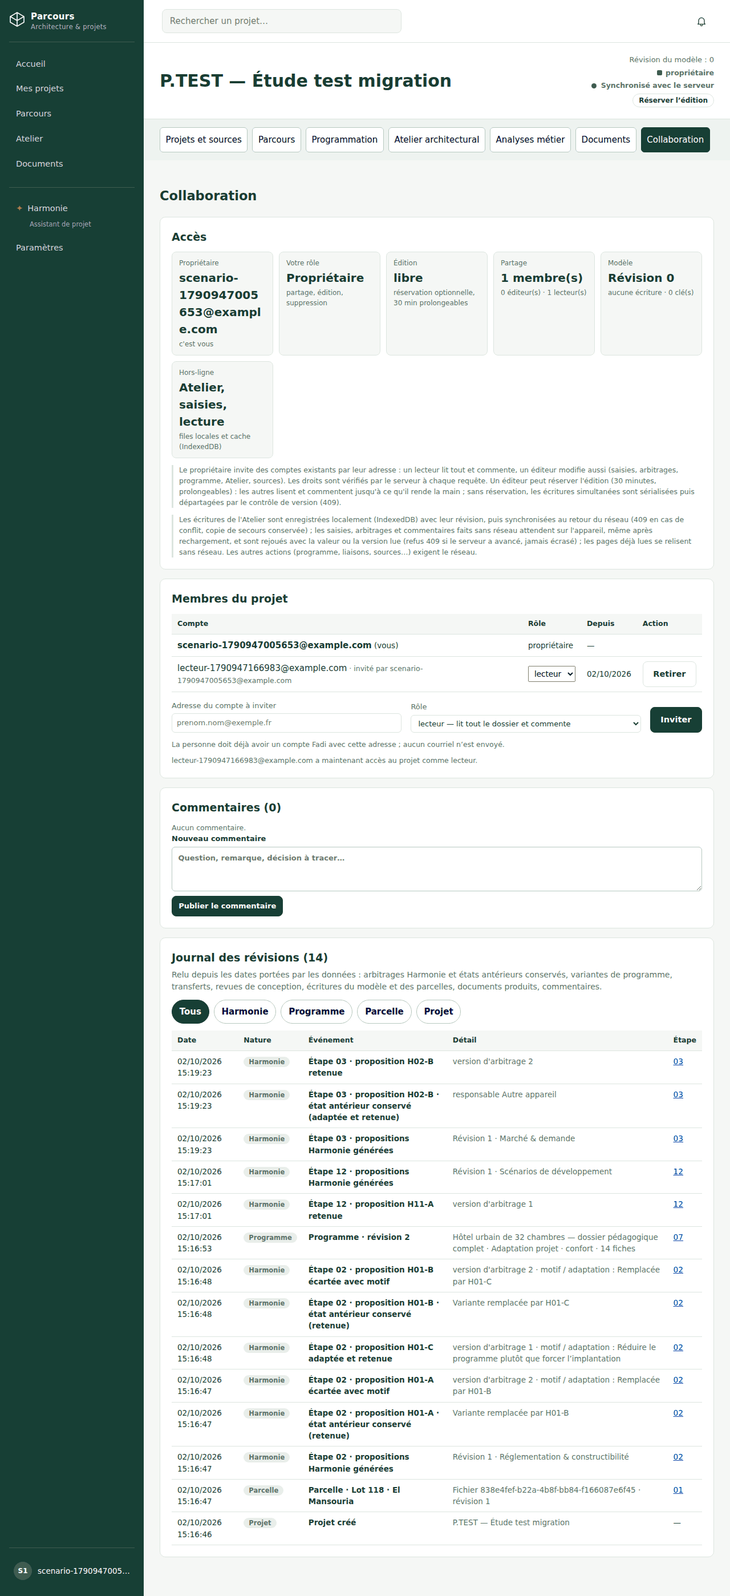
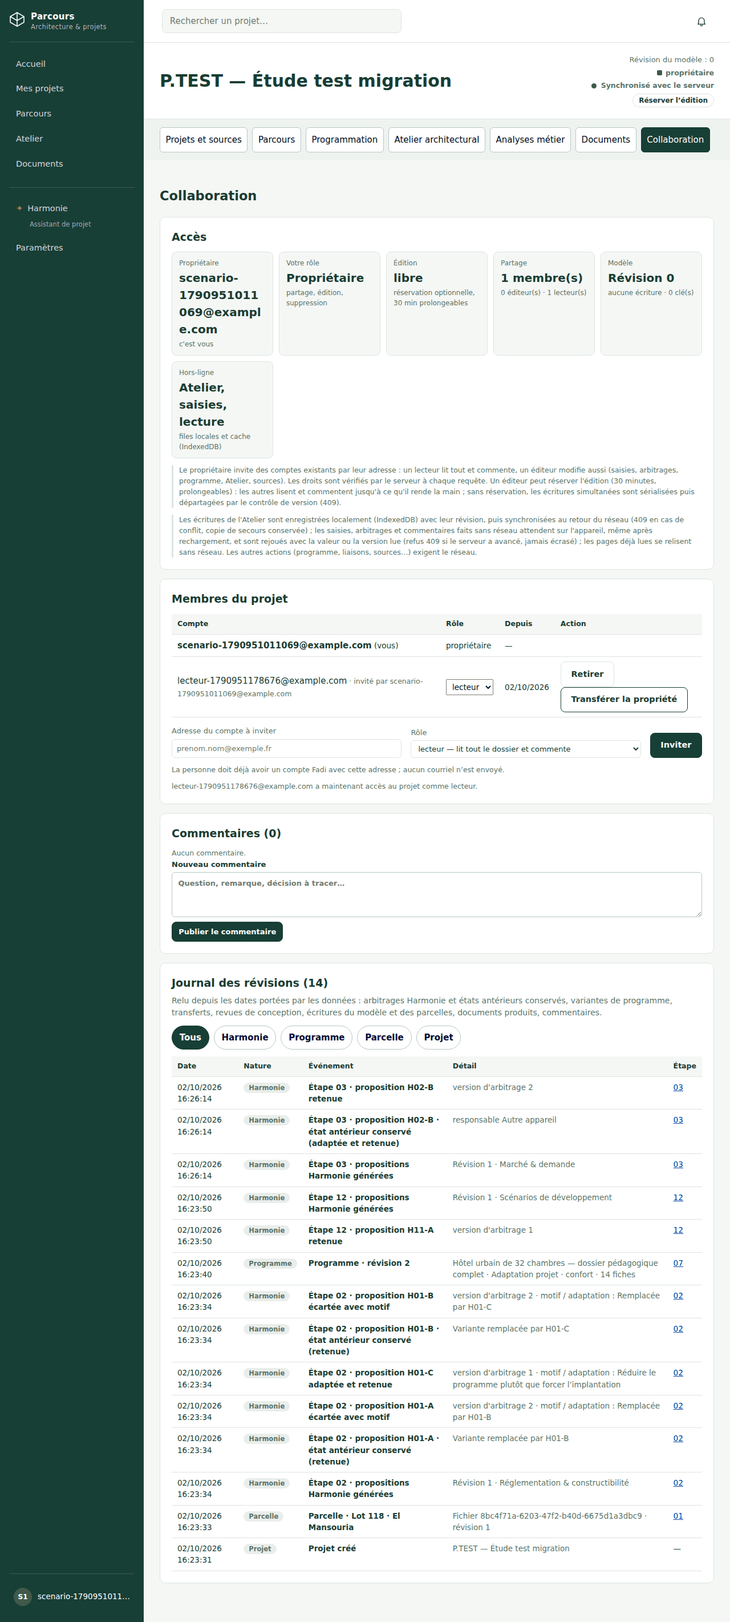
Transfert de propriété d'un projet partagé à un membre
- API `POST /projects/:id/members/:userId/propriete` (propriétaire
  seulement, dans la transaction verrouillée du projet) : le membre désigné
  devient propriétaire, l'ancien propriétaire reste éditeur ; un compte non
  membre est refusé (404 avec motif : l'inviter d'abord). Données, membres,
  réservation d'édition, provenance et historique ne changent pas.
- Module Collaboration : « Transférer la propriété » sur chaque membre
  (confirmation), rôle et liste des projets relus.

Preuves : `app.test.ts` (non membre, non propriétaire, étranger, transfert,
rôles et liste après transfert, l'ancien propriétaire modifie mais ne
partage ni ne supprime, le nouveau fait les deux) ; e2e 6m (transfert puis
retour, formulaire d'invitation déplacé) : 190 vérifications, « Scénario
conforme » ; 52 tests API.

Docs : matrice (ligne « Partage du projet », limite, prochaine action),
README du module Collaboration, docs/architecture.md.

Claude-Session: https://claude.ai/code/session_0157kHiYbK714BYhfbxMJK9G

diff --git a/apps/web/src/modules/collaboration/CollaborationModule.tsx b/apps/web/src/modules/collaboration/CollaborationModule.tsx
@@ -157,6 +157,17 @@ export function MembersPanel({ projectId }: { projectId: string }) {
     },
     onError: (err) => setError(errorText(err, "Le rôle n’a pas pu être modifié.")),
   });
+  const transfer = useMutation({
+    mutationFn: (userId: string) => api.transferOwnership(projectId, userId),
+    onSuccess: (v) => {
+      setError(null);
+      setNotice(`${v.owner.email} est maintenant propriétaire du projet ; vous en restez éditeur.`);
+      refresh();
+      void queryClient.invalidateQueries({ queryKey: ["project", projectId] });
+      void queryClient.invalidateQueries({ queryKey: ["projects"] });
+    },
+    onError: (err) => setError(errorText(err, "Le transfert n’a pas pu être enregistré.")),
+  });
   const remove = useMutation({
     mutationFn: (userId: string) => api.removeMember(projectId, userId),
     onSuccess: (_v, userId) => {
@@ -176,7 +187,7 @@ export function MembersPanel({ projectId }: { projectId: string }) {
   if (!query.data) return <p role="alert">Impossible de lire les membres du projet.</p>;
   const v = query.data;
   const isOwner = v.you.role === "proprietaire";
-  const busy = invite.isPending || change.isPending || remove.isPending;
+  const busy = invite.isPending || change.isPending || remove.isPending || transfer.isPending;
   return (
     <div className="members-panel">
       <table className="programme-table members-table">
@@ -218,9 +229,22 @@ export function MembersPanel({ projectId }: { projectId: string }) {
               <td>{new Date(m.createdAt).toLocaleDateString("fr-FR")}</td>
               <td>
                 {isOwner ? (
-                  <button type="button" className="button-secondary" disabled={busy} onClick={() => remove.mutate(m.userId)}>
-                    Retirer
-                  </button>
+                  <>
+                    <button type="button" className="button-secondary" disabled={busy} onClick={() => remove.mutate(m.userId)}>
+                      Retirer
+                    </button>{" "}
+                    <button
+                      type="button"
+                      className="button-secondary"
+                      disabled={busy}
+                      title="Ce compte devient propriétaire (partage, libération, suppression) ; vous restez éditeur."
+                      onClick={() => {
+                        if (confirm(`Transférer la propriété du projet à ${m.email} ? Vous en resterez éditeur.`)) transfer.mutate(m.userId);
+                      }}
+                    >
+                      Transférer la propriété
+                    </button>
+                  </>
                 ) : m.userId === v.you.userId ? (
                   <button type="button" className="button-secondary" disabled={busy} onClick={() => remove.mutate(m.userId)}>
                     Quitter le projet
@@ -305,7 +329,11 @@ export function CollaborationModule({ projectId }: { projectId: string }) {
           <div className="biz-kpi">
             <span>Édition</span>
             <b className="collab-lock">{v.access.lock ? `réservée par ${v.access.lock.email === v.access.you ? "vous" : v.access.lock.email}` : "libre"}</b>
-            <small>{v.access.lock ? `jusqu’à ${new Date(v.access.lock.expiresAt).toLocaleTimeString("fr-FR", { hour: "2-digit", minute: "2-digit" })} · depuis ${new Date(v.access.lock.since).toLocaleTimeString("fr-FR", { hour: "2-digit", minute: "2-digit" })}` : "réservation optionnelle, 30 min prolongeables"}</small>
+            <small>
+              {v.access.lock
+                ? `jusqu’à ${new Date(v.access.lock.expiresAt).toLocaleTimeString("fr-FR", { hour: "2-digit", minute: "2-digit" })} · depuis ${new Date(v.access.lock.since).toLocaleTimeString("fr-FR", { hour: "2-digit", minute: "2-digit" })}`
+                : "réservation optionnelle, 30 min prolongeables"}
+            </small>
           </div>
           <div className="biz-kpi">
             <span>Partage</span>

diff --git a/apps/api/src/routes/members.ts b/apps/api/src/routes/members.ts
@@ -5,6 +5,8 @@
  *   POST   /          { email, role } → 201 : invitation (ou changement de rôle) d'un compte existant — propriétaire seulement
  *   PATCH  /:userId   { role } → le rôle d'un membre — propriétaire seulement
  *   DELETE /:userId   → 204 : retrait d'un membre par le propriétaire, ou départ du membre lui-même
+ *   POST   /:userId/propriete → transfert de la propriété à ce membre (propriétaire seulement) : l'ancien propriétaire
+ *                      devient éditeur, le nouveau quitte la liste des membres ; rien d'autre ne change (réservation, données)
  *
  * Rôles (`lib/owned-project.ts`) : `lecteur` lit tout et commente ;
  * `editeur` lit, commente et modifie (saisies, arbitrages, programme,
@@ -21,9 +23,10 @@ import { Router } from "express";
 import { and, asc, eq } from "drizzle-orm";
 import { z } from "zod";
 import { db } from "../db/client.js";
-import { projectMembers, users } from "../db/schema.js";
+import { projectMembers, projects, users } from "../db/schema.js";
 import { requireAuth } from "../middleware/require-auth.js";
 import { projectOr404, type ProjectRole } from "../lib/owned-project.js";
+import { lockProject } from "../lib/step-rows.js";
 
 export const membersRouter = Router({ mergeParams: true });
 membersRouter.use(requireAuth);
@@ -129,4 +132,35 @@ membersRouter.delete("/:userId", async (req, res) => {
     return;
   }
   res.status(204).end();
+});
+
+/**
+ * Transfert de propriété : le membre désigné devient propriétaire (il partage,
+ * libère et supprime désormais), l'ancien propriétaire reste éditeur. Le
+ * projet, ses données, ses membres et une éventuelle réservation d'édition
+ * ne changent pas ; la provenance et l'historique non plus.
+ */
+membersRouter.post("/:userId/propriete", async (req, res) => {
+  const project = await projectOr404(req, res, "owner");
+  if (!project) return;
+  const userId = req.params["userId"] as string;
+  const result = await db.transaction(async (tx) => {
+    await lockProject(tx, project.id);
+    const [member] = await tx
+      .select({ userId: projectMembers.userId, email: users.email })
+      .from(projectMembers)
+      .innerJoin(users, eq(users.id, projectMembers.userId))
+      .where(and(eq(projectMembers.projectId, project.id), eq(projectMembers.userId, userId)))
+      .limit(1);
+    if (!member) return null;
+    await tx.delete(projectMembers).where(and(eq(projectMembers.projectId, project.id), eq(projectMembers.userId, userId)));
+    await tx.insert(projectMembers).values({ projectId: project.id, userId: project.ownerId, role: "editeur", invitedBy: member.email });
+    await tx.update(projects).set({ ownerId: userId, updatedAt: new Date() }).where(eq(projects.id, project.id));
+    return member;
+  });
+  if (!result) {
+    res.status(404).json({ error: "not_found", message: "La propriété ne peut être transférée qu'à un membre du projet : invitez d'abord ce compte." });
+    return;
+  }
+  res.json({ owner: { userId: result.userId, email: result.email }, you: { userId: req.user!.id, role: "editeur" as ProjectRole }, members: await listMembers(project.id) });
 });

diff --git a/apps/api/src/app.test.ts b/apps/api/src/app.test.ts
@@ -1706,6 +1706,31 @@ describe("Partage du projet — membres, rôles vérifiés côté serveur", () =
     expect(journal.access).toMatchObject({ role: "proprietaire", members: [] });
     expect(journal.journal.find((e: { label: string }) => e.label === "Étape 02 · proposition H01-B retenue")).toBeDefined();
   });
+
+  it("transfers ownership to a member: the new owner shares and deletes, the former owner stays as editor, strangers and non-members are refused", async () => {
+    const owner = await registerAndLogin("transfer-owner@example.com");
+    const next = await registerAndLogin("transfer-next@example.com");
+    const stranger = await registerAndLogin("transfer-stranger@example.com");
+    const pid = (await owner.post("/projects").send({ code: "P.OWN", name: "Transfert" })).body.id as string;
+    const nextId = (await next.get("/auth/me")).body.id as string;
+    expect((await owner.post(`/projects/${pid}/members/${nextId}/propriete`)).status).toBe(404); // pas encore membre
+    await owner.post(`/projects/${pid}/members`).send({ email: "transfer-next@example.com", role: "lecteur" });
+    expect((await next.post(`/projects/${pid}/members/${nextId}/propriete`)).status).toBe(403); // propriétaire seulement
+    expect((await stranger.post(`/projects/${pid}/members/${nextId}/propriete`)).status).toBe(404);
+    const transferred = await owner.post(`/projects/${pid}/members/${nextId}/propriete`);
+    expect(transferred.status).toBe(200);
+    expect(transferred.body).toMatchObject({ owner: { email: "transfer-next@example.com" }, you: { role: "editeur" } });
+    expect(transferred.body.members.map((m: { email: string; role: string }) => [m.email, m.role])).toEqual([["transfer-owner@example.com", "editeur"]]);
+    expect((await next.get(`/projects/${pid}`)).body).toMatchObject({ role: "proprietaire", ownerEmail: "transfer-next@example.com" });
+    expect((await owner.get(`/projects/${pid}`)).body).toMatchObject({ role: "editeur", ownerEmail: "transfer-next@example.com" });
+    expect((await owner.get("/projects")).body[0]).toMatchObject({ id: pid, role: "editeur" });
+    // L'ancien propriétaire modifie encore, mais ne partage ni ne supprime plus ; le nouveau fait les deux.
+    expect((await owner.patch(`/projects/${pid}/steps/2`).send({ fields: { f1: "Après transfert" } })).status).toBe(200);
+    expect((await owner.post(`/projects/${pid}/members`).send({ email: "transfer-stranger@example.com", role: "lecteur" })).status).toBe(403);
+    expect((await owner.delete(`/projects/${pid}`)).status).toBe(403);
+    expect((await next.post(`/projects/${pid}/members`).send({ email: "transfer-stranger@example.com", role: "lecteur" })).status).toBe(201);
+    expect((await next.delete(`/projects/${pid}`)).status).toBe(204);
+  });
 });
 
 describe("Verrou d'édition optionnel — un seul éditeur actif", () => {

diff --git a/apps/web/src/lib/api.ts b/apps/web/src/lib/api.ts
@@ -710,6 +710,8 @@ export const api = {
   inviteMember: (projectId: string, email: string, role: MemberRole) => request<ProjectMember>(`/projects/${projectId}/members`, { method: "POST", body: JSON.stringify({ email, role }) }),
   setMemberRole: (projectId: string, userId: string, role: MemberRole) => request<ProjectMember>(`/projects/${projectId}/members/${encodeURIComponent(userId)}`, { method: "PATCH", body: JSON.stringify({ role }) }),
   removeMember: (projectId: string, userId: string) => request<void>(`/projects/${projectId}/members/${encodeURIComponent(userId)}`, { method: "DELETE" }),
+  /** Transfert de propriété à un membre (propriétaire seulement) : vous restez éditeur. */
+  transferOwnership: (projectId: string, userId: string) => request<MembersView>(`/projects/${projectId}/members/${encodeURIComponent(userId)}/propriete`, { method: "POST" }),
   /** Verrou d'édition optionnel : réserver / prolonger (423 si quelqu'un d'autre le détient), rendre la main (ou libérer, propriétaire). */
   getLock: (projectId: string) => request<{ lock: EditingLock | null; yours: boolean }>(`/projects/${projectId}/lock`),
   reserveEditing: (projectId: string) => request<{ lock: EditingLock; yours: true }>(`/projects/${projectId}/lock`, { method: "PUT" }),

diff --git a/docs/migration/matrix.md b/docs/migration/matrix.md
@@ -86,7 +86,7 @@ Trois modules du brief sans écran propre dans le prototype : leurs fonctions y 
 | **Documents** — catalogue des documents productibles depuis la révision courante (synthèse et 21 rapports Harmonie, bilan du bâtiment, plans de lecture SVG par niveau, tableau des surfaces CSV, programme CSV, fiches de l'exemple CSV, archive JSON), production enregistrée avec la révision du modèle et l'empreinte des entrées, actualité « à jour / périmé » (`ProducedDocument`) ; « Produire ↓ » ; les téléchargements existants (rapports, bilan, plan, CSV, archive) passent par les mêmes routes et enregistrent leur production | Adapter (nouveau module ; documents générés par le serveur, jamais stockés) | `packages/domain-model/src/documents.ts` (`surfacesCsv`, `resolvedSpacesCsv`, `documentFreshness`) ; `apps/api/src/lib/documents.ts` (empreintes par document, catalogue, `recordProducedDocument`) ; table `produced_documents` ; `routes/documents.ts` (`GET …/documents`, `/plan/:levelId`, `/surfaces`, `/programme`, `/fiches`) ; `modules/documents/DocumentsModule.tsx` | ✅ (dessins techniques et exports PNG / SVG / DXF restent dans l'Atelier natif) | `app.test.ts` « Documents — catalogue… » (33 documents, production, périmé après arbitrage et après écriture du modèle, pièces jointes nommées comme le prototype) ; e2e 6i ; `captures/webapp/documents-desktop.png` |
 | **Hors-ligne et synchronisation** (Lot 4, « Sync and offline, designed from the start ») — file locale IndexedDB (Dexie) des écritures de l'Atelier : chaque écriture du moteur est enregistrée localement avec la révision lue avant d'être envoyée, n'en sort qu'acceptée ou résolue en conflit, est rejouée au retour du réseau (`online`) et à la prochaine ouverture du projet ; quatre états visibles (enregistré localement, synchronisation, enregistré sur le serveur, conflit) plus « hors-ligne » / « serveur injoignable » ; indicateur permanent dans l'en-tête du projet (réseau, modifications en attente, « Synchroniser maintenant ») ; cache local du modèle (ouverture de l'Atelier sans réseau) ; cache persistant des requêtes (projet, étapes, programme, analyses, documents… relus sans réseau, bandeau « Lecture hors-ligne : données lues le … », réhydratés périmés puis relus dès que le serveur répond, propres à l'utilisateur de l'appareil) ; service worker servant l'application, le moteur de l'Atelier et l'outil Parcelle hors-ligne (jamais l'API) ; dernier utilisateur connu conservé pour relire hors-ligne (le serveur reste seul juge à chaque requête) ; **file des saisies, arbitrages et commentaires** : mutations à clé mises en pause sans réseau, persistées avec le cache et restaurées après rechargement (« N envoi(s) de cette étape en attente du réseau »), rejouées au retour du réseau ; chaque saisie envoie la valeur qu'elle avait lue (`baseline`) et chaque arbitrage la version lue (`expectedVersion`) : le serveur refuse (409) ce qui écraserait une écriture plus récente, le refus est montré (bandeau « écriture(s) refusée(s) », valeur courante, « Compris ») et compté dans l'en-tête | Adapter (plan d'architecture) | `apps/web/src/lib/local-store.ts` (Dexie : `outbox`, `modelCache`, `keyValue`), `lib/query-persister.ts` (`PersistQueryClientProvider`, `resumePausedMutations`), `lib/mutations.ts` (clés, valeurs par défaut, conflits), `modules/atelier/native/engine.ts` (file, rejeu, états), `components/SyncIndicator.tsx`, `routes/ProjectShell.tsx` (bandeaux), `lib/auth-context.tsx`, `public/sw.js`, `main.tsx` ; API : `baseline` du `PATCH …/steps/:n` et `expectedVersion` de `POST …/harmonie/:id` (409 `conflict`) | ✅ (dessin, saisies et lecture hors-ligne ; **résolution assistée des conflits** : chaque refus montré côte à côte avec l'état du serveur — saisie : champ, valeur du serveur, votre saisie, « Garder le serveur » / « Reprendre ma saisie » (renvoyée fondée sur la valeur courante) ; arbitrage : votre arbitrage face à la version courante, « Réappliquer sur la version courante » ; modèle : copie de secours, « Garder le serveur » / « Reprendre ma version » (réécrite à partir de la révision du serveur, copie retirée) ; l'état d'affichage `.ui` prend la version du serveur sans conflit ; cache du service worker versionné par build et purgé à l'activation) | `app.test.ts` « Contrôle de concurrence des saisies et des arbitrages » (dont « serialises simultaneous writes ») ; e2e 6k (dessin hors-ligne → file IndexedDB → synchronisation au retour du réseau, +1 mur / +1 révision ; conflit du modèle → copie de secours → « Reprendre ma version » (+1 mur, copie retirée) ; serveur injoignable → rechargement → rejeu ; rechargement hors-ligne : étape relue du cache, bandeau, Atelier depuis le cache local avec 6 niveaux), 6l (saisie hors-ligne en pause, restaurée après rechargement, refusée 409 quand un autre appareil a écrit — versions côte à côte, « Reprendre ma saisie » acceptée — ; arbitrage refusé sur version périmée → « Réappliquer sur la version courante », version 2 avec historique) ; `captures/webapp/conflit-saisie-desktop.png` |
 | **Collaboration** — commentaires par projet et par étape (pli « Commentaires (n) » dans chaque étape, fil du module ; auteur enregistré, suppression par l'auteur seul), journal des révisions relu depuis les dates portées par les données (arbitrages Harmonie et états antérieurs conservés, générations, variantes de programme, transferts, revues de conception, écritures du modèle natif et des parcelles, documents produits, commentaires), accès réel (propriétaire, votre rôle, membres) et synchronisation annoncés tels quels | Adapter (nouveau module) | table `project_comments` ; `routes/collaboration.ts` (`GET …/collaboration`, `GET/POST …/collaboration/comments`, `DELETE …/comments/:id`) ; `modules/collaboration/CollaborationModule.tsx` (`CommentThread`, `StepComments`, `MembersPanel`) | 🟡 (commentaires, journal, partage et états réels ; reste : réponses en fil, notifications) | `app.test.ts` « Collaboration — accès… » ; e2e 6j ; `captures/webapp/collaboration-desktop.png` |
-| **Partage du projet** (Lot 4) — le propriétaire invite des comptes existants par leur adresse (aucun courriel, aucun compte inventé), change leur rôle, les retire ; un membre peut quitter le projet ; deux rôles : **lecteur** (lit tout le dossier — étapes, Harmonie, programme, Atelier, analyses, documents, pièces —, commente, exporte et copie), **éditeur** (modifie aussi : saisies, arbitrages, programme, liaisons, hypothèses, transferts, Atelier, parcelle, sources, références) ; le propriétaire seul partage et supprime ; chaque requête vérifie le rôle côté serveur (`need` déclaré par route : `read` / `comment` / `write` / `owner` ; 404 sans accès, 403 motivé si le rôle ne suffit pas) ; « Projets partagés avec vous » dans la liste, rôle et propriétaire dans l'en-tête du projet, bandeau « Projet partagé en lecture » ; pour un lecteur : formulaires et arbitrages inactifs (valeurs lisibles), import / suppression de sources masqués, éditeurs du programme désactivés, Atelier en lecture seule (dessin en mémoire, rien d'enregistré) ; les membres travaillent sur le **même** projet : les écritures sont sérialisées par projet (verrou `FOR UPDATE` dans chaque transaction de relecture-réécriture — deux champs envoyés en même temps, deux éditeurs, un rejeu hors-ligne ne se perdent plus) puis départagées par le contrôle de version (409) ; **réservation d'édition optionnelle** (« un seul éditeur actif ») : un éditeur ou le propriétaire réserve l'édition 30 min (prolongée d'elle-même tant que le projet reste ouvert, « Prolonger », « Rendre la main » ; le propriétaire peut « Libérer ») — les autres comptes lisent et commentent, leurs écritures sont refusées (423, motif et échéance), formulaires, arbitrages, éditeurs et Atelier inactifs chez eux ; un verrou expiré n'existe plus ; sans réservation, rien ne change | Adapter (plan d'architecture : rôles, droits, un seul éditeur actif ; prototype : un seul utilisateur local) | tables `project_members`, `projects.editing_lock` ; `lib/owned-project.ts` (`loadProjectAccess`, `projectOr404(req, res, need)`, `roleAllows`, `activeLock`, 423) ; `routes/members.ts` (`GET/POST …/members`, `PATCH/DELETE …/members/:userId`) ; `routes/lock.ts` (`GET/PUT/DELETE …/lock`) ; `GET /projects` (projets partagés, `role`, `ownerEmail`, `editingLock`) ; `lib/step-rows.ts` (`lockProject`) ; `apps/web/src/lib/access.ts` (`useProjectAccess` : rôle et réservation), `components/WriteFieldset.tsx`, `components/EditingLockControl.tsx`, `modules/collaboration/CollaborationModule.tsx` (`MembersPanel`, KPI « Édition »), `routes/ProjectShell.tsx`, `routes/ProjectsPage.tsx`, `modules/atelier/native/engine.ts` (`readOnly`, 403 / 423) | ✅ (membres, rôles, droits serveur, réservation d'édition ; reste : notifications d'invitation, transfert de propriété) | `app.test.ts` « Partage du projet — membres, rôles vérifiés côté serveur », « serialises simultaneous writes… », « Verrou d'édition optionnel — un seul éditeur actif » ; e2e 6m ; `captures/webapp/collaboration-partage-desktop.png`, `captures/webapp/partage-lecteur-02-desktop.png`, `captures/webapp/partage-edition-reservee-desktop.png` |
+| **Partage du projet** (Lot 4) — le propriétaire invite des comptes existants par leur adresse (aucun courriel, aucun compte inventé), change leur rôle, les retire ; un membre peut quitter le projet ; deux rôles : **lecteur** (lit tout le dossier — étapes, Harmonie, programme, Atelier, analyses, documents, pièces —, commente, exporte et copie), **éditeur** (modifie aussi : saisies, arbitrages, programme, liaisons, hypothèses, transferts, Atelier, parcelle, sources, références) ; le propriétaire seul partage et supprime ; chaque requête vérifie le rôle côté serveur (`need` déclaré par route : `read` / `comment` / `write` / `owner` ; 404 sans accès, 403 motivé si le rôle ne suffit pas) ; « Projets partagés avec vous » dans la liste, rôle et propriétaire dans l'en-tête du projet, bandeau « Projet partagé en lecture » ; pour un lecteur : formulaires et arbitrages inactifs (valeurs lisibles), import / suppression de sources masqués, éditeurs du programme désactivés, Atelier en lecture seule (dessin en mémoire, rien d'enregistré) ; les membres travaillent sur le **même** projet : les écritures sont sérialisées par projet (verrou `FOR UPDATE` dans chaque transaction de relecture-réécriture — deux champs envoyés en même temps, deux éditeurs, un rejeu hors-ligne ne se perdent plus) puis départagées par le contrôle de version (409) ; **réservation d'édition optionnelle** (« un seul éditeur actif ») : un éditeur ou le propriétaire réserve l'édition 30 min (prolongée d'elle-même tant que le projet reste ouvert, « Prolonger », « Rendre la main » ; le propriétaire peut « Libérer ») — les autres comptes lisent et commentent, leurs écritures sont refusées (423, motif et échéance), formulaires, arbitrages, éditeurs et Atelier inactifs chez eux ; un verrou expiré n'existe plus ; sans réservation, rien ne change | Adapter (plan d'architecture : rôles, droits, un seul éditeur actif ; prototype : un seul utilisateur local) | tables `project_members`, `projects.editing_lock` ; `lib/owned-project.ts` (`loadProjectAccess`, `projectOr404(req, res, need)`, `roleAllows`, `activeLock`, 423) ; `routes/members.ts` (`GET/POST …/members`, `PATCH/DELETE …/members/:userId`, `POST …/members/:userId/propriete` : transfert de propriété, l'ancien propriétaire reste éditeur) ; `routes/lock.ts` (`GET/PUT/DELETE …/lock`) ; `GET /projects` (projets partagés, `role`, `ownerEmail`, `editingLock`) ; `lib/step-rows.ts` (`lockProject`) ; `apps/web/src/lib/access.ts` (`useProjectAccess` : rôle et réservation), `components/WriteFieldset.tsx`, `components/EditingLockControl.tsx`, `modules/collaboration/CollaborationModule.tsx` (`MembersPanel`, KPI « Édition »), `routes/ProjectShell.tsx`, `routes/ProjectsPage.tsx`, `modules/atelier/native/engine.ts` (`readOnly`, 403 / 423) | ✅ (membres, rôles, droits serveur, réservation d'édition, transfert de propriété ; reste : notifications d'invitation — pas de courriel) | `app.test.ts` « Partage du projet — membres, rôles vérifiés côté serveur », « serialises simultaneous writes… », « Verrou d'édition optionnel — un seul éditeur actif » ; e2e 6m ; `captures/webapp/collaboration-partage-desktop.png`, `captures/webapp/partage-lecteur-02-desktop.png`, `captures/webapp/partage-edition-reservee-desktop.png` |
 
 ## 5. Repères de coordonnées (transversal)
 
@@ -140,11 +140,12 @@ Trois modules du brief sans écran propre dans le prototype : leurs fonctions y 
 5. Bibliothèque des bâtiments : « Ouvrir le modèle P.118 » depuis un projet sans modèle : non porté (le lien n'est proposé que depuis un projet).
 6. Documents de base (PDF) : non portés (les sources de l'étape, la synthèse des choix Harmonie et l'archive de projet le sont désormais) ; l'import d'un export du prototype ne reprend pas ses fichiers de parcelle (l'ancien outil les gardait hors du projet, dans `localStorage`) : la parcelle du modèle natif reste disponible via `nativeParcel`.
 7. Hors-ligne : les écritures de l'Atelier, les saisies des formulaires, les arbitrages et les commentaires sont mis en file et rejoués ; les autres actions (programme, liaisons, hypothèses, transferts, sources, références directionnelles) exigent le réseau et échouent explicitement sans lui ; un serveur injoignable alors que le navigateur se croit en ligne fait échouer une saisie après ses tentatives (l'Atelier, lui, la garde en file) ; la résolution d'un conflit est une décision entre deux versions entières (pas de fusion champ par champ d'un même texte ni de fusion géométrique) ; les conflits du modèle ne sont listés que dans la session qui les a rencontrés (la copie de secours, elle, est sur le serveur et visible dans le magasin).
-8. Analyses métier : contrôles réglementaires (accessibilité, incendie, structure calculée) non portés — seules les règles du prototype et les données déclarées sont lues. Documents : dessins techniques et exports DXF / PNG / SVG de l'Atelier non repris dans le catalogue (ils restent dans le moteur natif). Collaboration : la réservation d'édition est volontaire (pas de verrou implicite à l'ouverture d'un projet) et ne se voit chez les autres qu'à la relecture (toutes les minutes, ou à la navigation) ; pas de notification d'invitation ni de courriel ; les commentaires n'ont ni réponse en fil ni notification ; le propriétaire ne peut pas transférer la propriété.
+8. Analyses métier : contrôles réglementaires (accessibilité, incendie, structure calculée) non portés — seules les règles du prototype et les données déclarées sont lues. Documents : dessins techniques et exports DXF / PNG / SVG de l'Atelier non repris dans le catalogue (ils restent dans le moteur natif). Collaboration : la réservation d'édition est volontaire (pas de verrou implicite à l'ouverture d'un projet) et ne se voit chez les autres qu'à la relecture (toutes les minutes, ou à la navigation) ; pas de notification d'invitation ni de courriel (un projet partagé apparaît dans « Projets partagés avec vous » à la prochaine lecture) ; les commentaires n'ont ni réponse en fil ni notification.
 9. E2E : le scénario Playwright (`apps/web/e2e/parcours-scenario.mjs`) tourne en CI (`.github/workflows/ci.yml`, job `e2e` : Postgres/PostGIS, API construite, build servi par `vite preview`, Chromium Playwright ; captures publiées en artefact) — un échec de scénario fait échouer la CI ; il reste long (≈ 8 min) et n'est pas découpé par module.
 
 ## Prochaine action
 
-Limites restantes, par ordre d'utilité : transfert de propriété et
-notifications d'invitation, fond MapTiler / altimétrie (étapes 01, 10/11 —
-service et clé externes), découpage du scénario e2e par module.
+Limites restantes, par ordre d'utilité : notifications d'invitation
+(courriel : service externe), fond MapTiler / altimétrie (étapes 01, 10/11
+— service et clé externes), découpage du scénario e2e par module,
+réponses en fil aux commentaires.

diff --git a/docs/architecture.md b/docs/architecture.md
@@ -215,8 +215,8 @@ decision and version, model backup key) and offers to keep the server's version 
 current state — never an automatic merge. The service-worker cache is versioned per build and purged on
 activation, and the Playwright scenario runs in CI. The "single active editor" rule is an optional, expiring
 reservation (30 min, renewed while the holder keeps the project open, releasable by the owner): other accounts
-read and comment while it lasts, their writes are refused with the reason and the deadline (423). Still open:
-ownership transfer, invitation notifications.
+read and comment while it lasts, their writes are refused with the reason and the deadline (423). Ownership can be transferred to a member (the former owner stays as editor). Still open: invitation notifications
+(no e-mail service).
 The app loads in pieces (shell, project, Atelier engine, library) and the service worker precaches every piece
 at install so offline opening does not depend on what was visited online. Lot 5 items still open are listed
 under « Limites restantes » in the matrix (regulatory checks, MapTiler / altimetry, deployment hardening).
